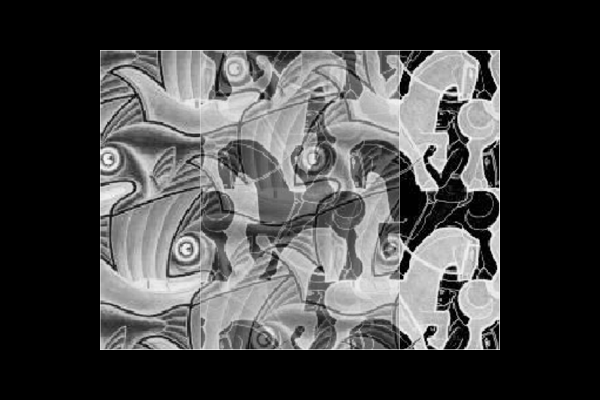
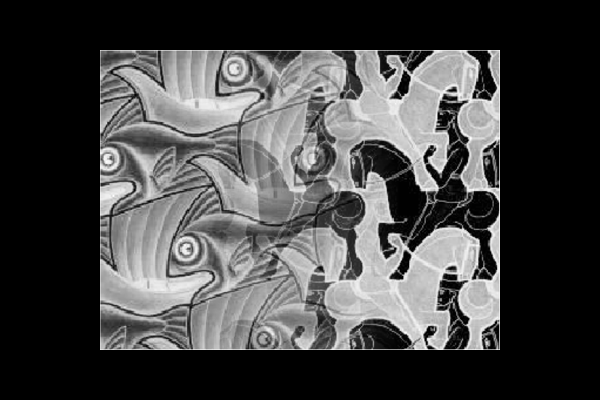
HW4 update blend to be smoother

diff --git a/hw4/Python/hw4_challenge1.py b/hw4/Python/hw4_challenge1.py
@@ -204,10 +204,33 @@ def blendImagePair(img1: np.ndarray, mask1: np.ndarray, img2: np.ndarray, mask2:
         only_mask1 = mask1_bool & ~mask2_bool
         only_mask2 = mask2_bool & ~mask1_bool
         
-        # No need to initialize out_img with zeros since it's already a copy of img1
-        out_img[both_masks] = (out_img[both_masks].astype('float') + img2[both_masks].astype('float')) / 2
-        # The following lines are not needed since out_img is already img1 where only mask1 applies
-        # out_img[only_mask1] = out_img[only_mask1]
+        height, width = out_img.shape[:2]
+
+        # Calculate the indices where the blending will occur (both masks are positive)
+        blend_indices = np.where(both_masks)
+
+        # Create a gradient mask
+        gradient_mask = np.zeros(both_masks.shape, dtype='float')
+
+        # You'll need to adjust this part according to the direction of your blend (horizontal or vertical)
+        # This example assumes a horizontal blend. For a vertical blend, use the row indices (blend_indices[0]) instead
+        start = np.min(blend_indices[1])  # Start of the blend region
+        end = np.max(blend_indices[1])    # End of the blend region
+        for i in range(start, end + 1):
+            gradient_mask[:, i] = (i - start) / (end - start)
+
+        # Apply the gradient mask for blending
+        # Ensure dimensions match for broadcasting; you might need to adjust this part depending on your image structure
+        if out_img.ndim == 3 and gradient_mask.ndim == 2:
+            gradient_mask = gradient_mask[:, :, np.newaxis]
+
+        # Blend using the gradient mask where both masks overlap
+        out_img[both_masks] = out_img[both_masks].astype('float') * (1 - gradient_mask[both_masks]) + img2[both_masks].astype('float') * gradient_mask[both_masks]
+
+        # Normalize back to the original image type if necessary, e.g., uint8
+        out_img = np.clip(out_img, 0, 255).astype('uint8')
+
+        #out_img[both_masks] = (out_img[both_masks].astype('float') + img2[both_masks].astype('float')) / 2
         out_img[only_mask2] = img2[only_mask2]
     else:
         raise ValueError("Invalid blending mode. Choose either 'overlay' or 'blend'.")
@@ -366,7 +389,10 @@ def stitchOneMore(currentBase: np.ndarray, leftToCB: np.ndarray, rightToCB: np.n
     NBToSrc = dstToSrc @ CBToDst @ NBToCB
     mask1, dest_img = backwardWarpImg(img_src, NBToSrc, dest_canvas_shape)
     # Superimpose the image
-    result = blendImagePair(dest_img, mask1, new_base, mask2, "blend")
+    if left:
+        result = blendImagePair(dest_img, mask1, new_base, mask2, "blend")
+    else:
+        result = blendImagePair(new_base, mask2, dest_img, mask1, "blend")
     result = Image.fromarray((result).astype(np.uint8))
 
     leftToNB = leftToCB @ np.linalg.inv(NBToCB)
